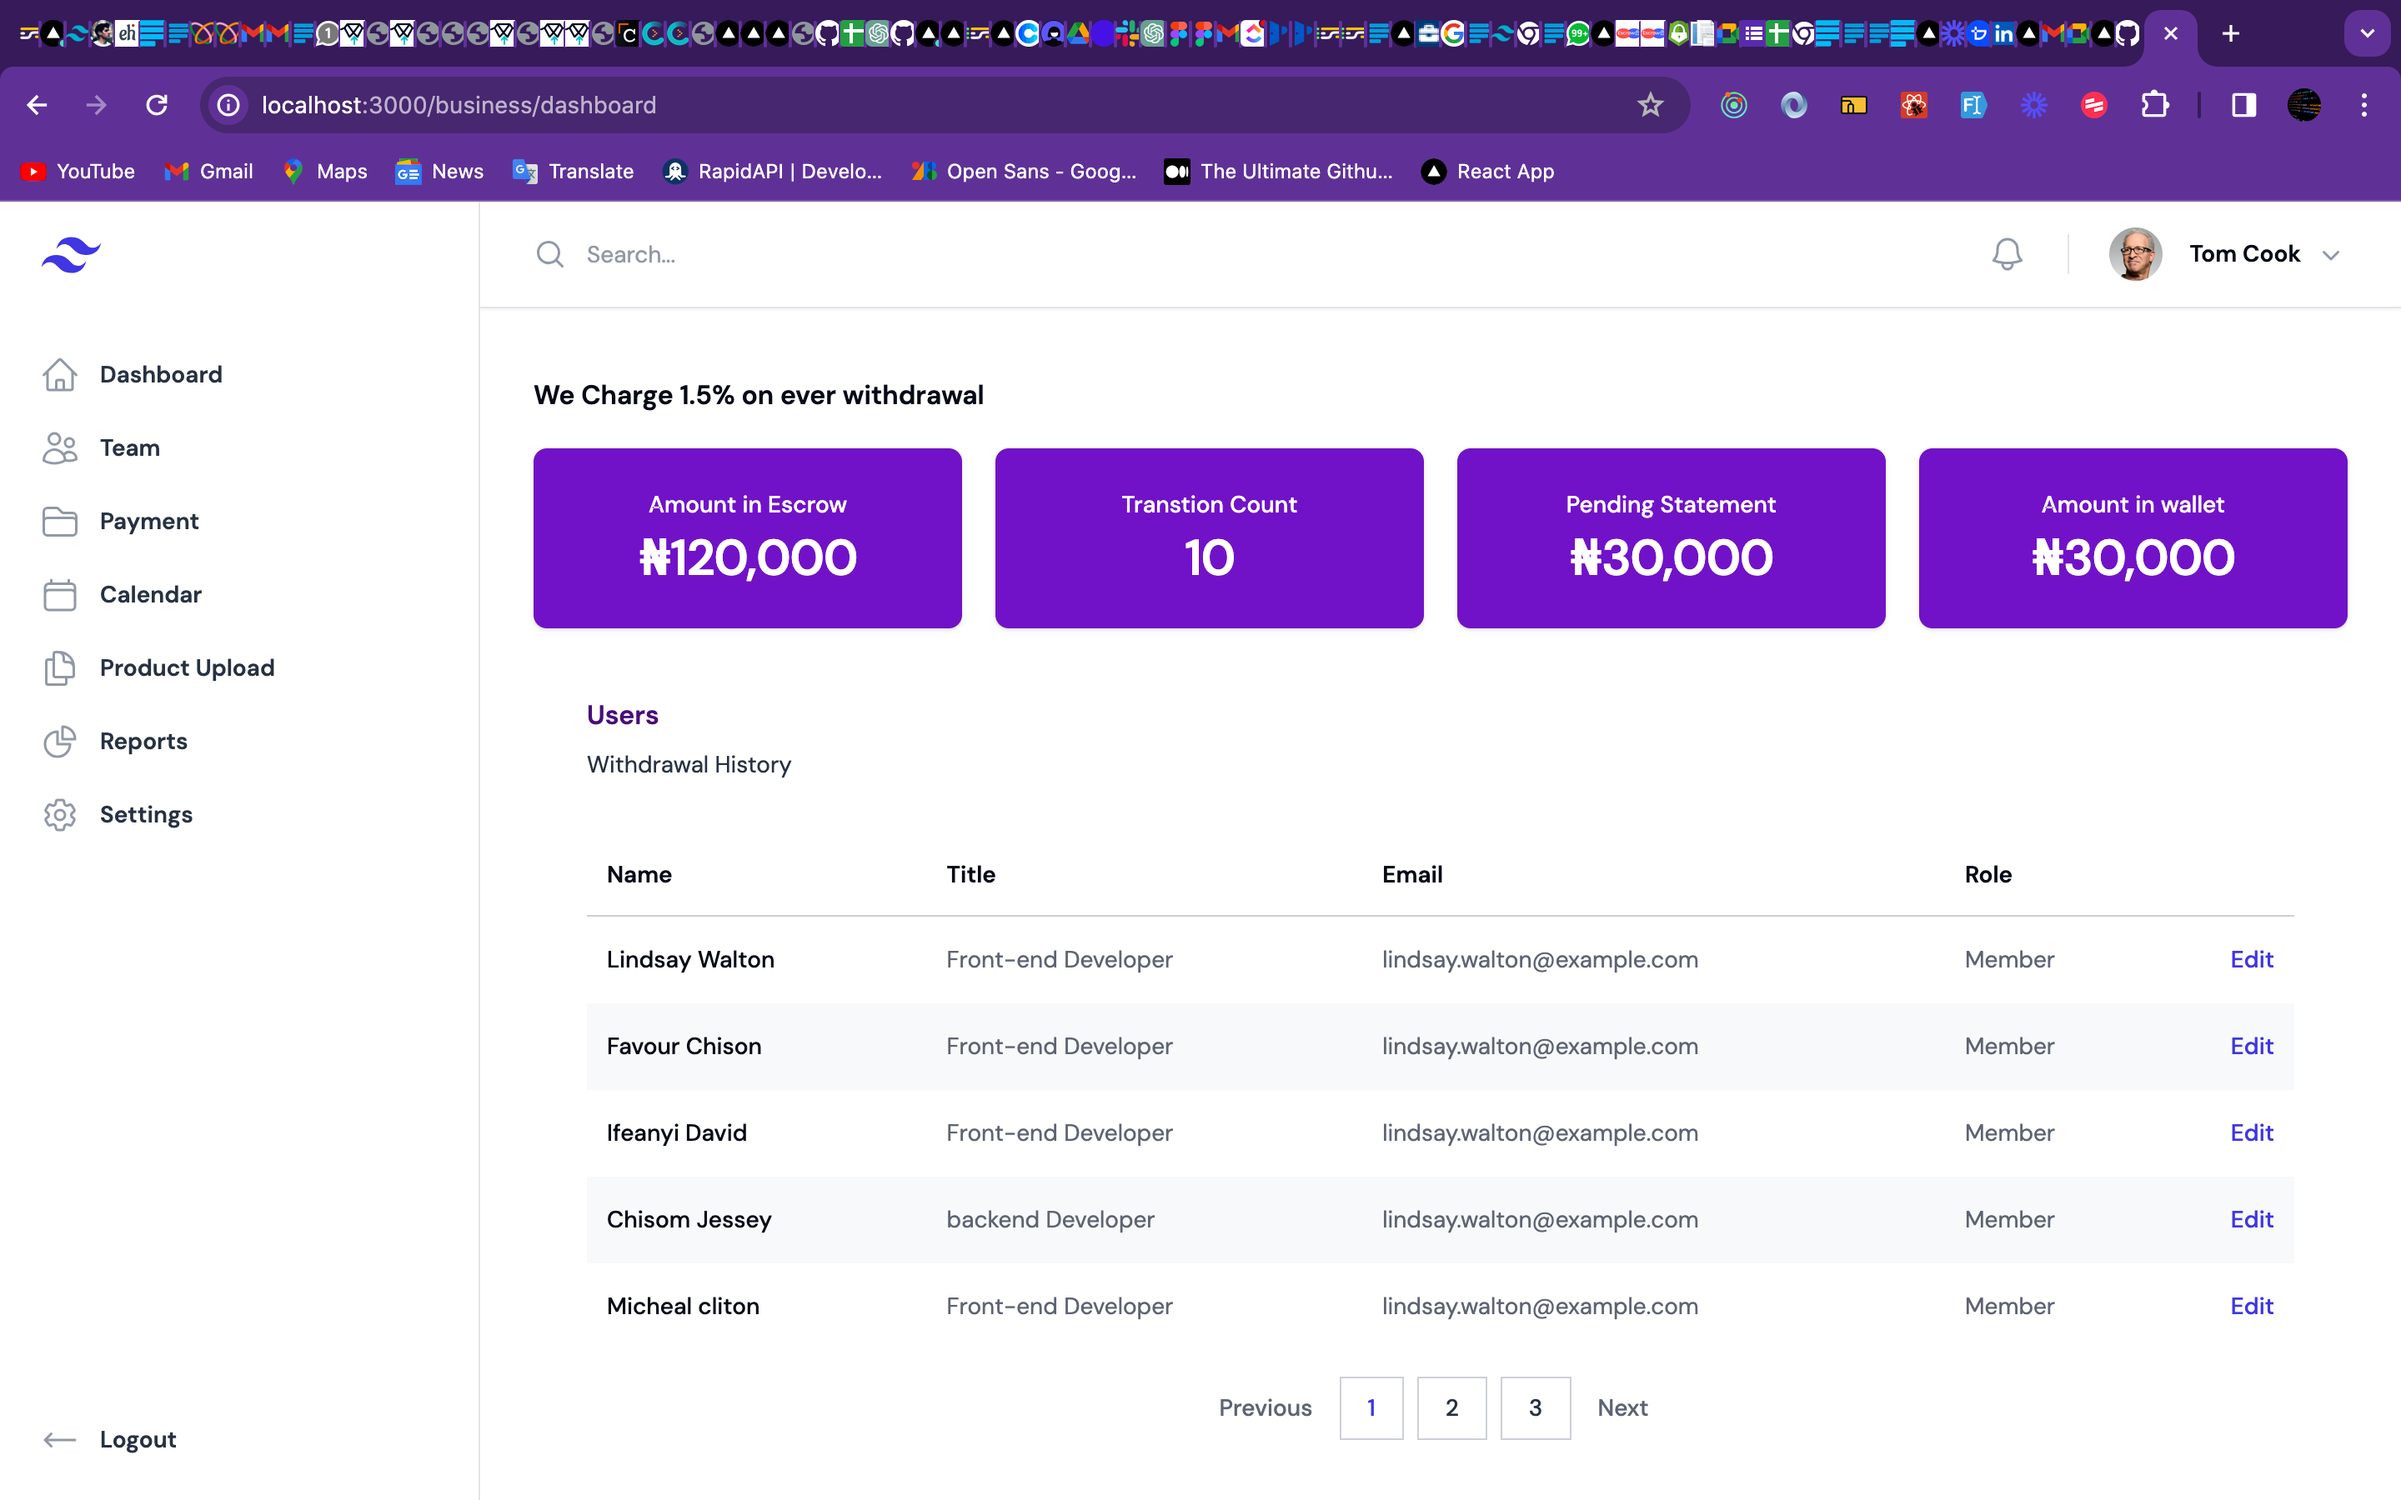
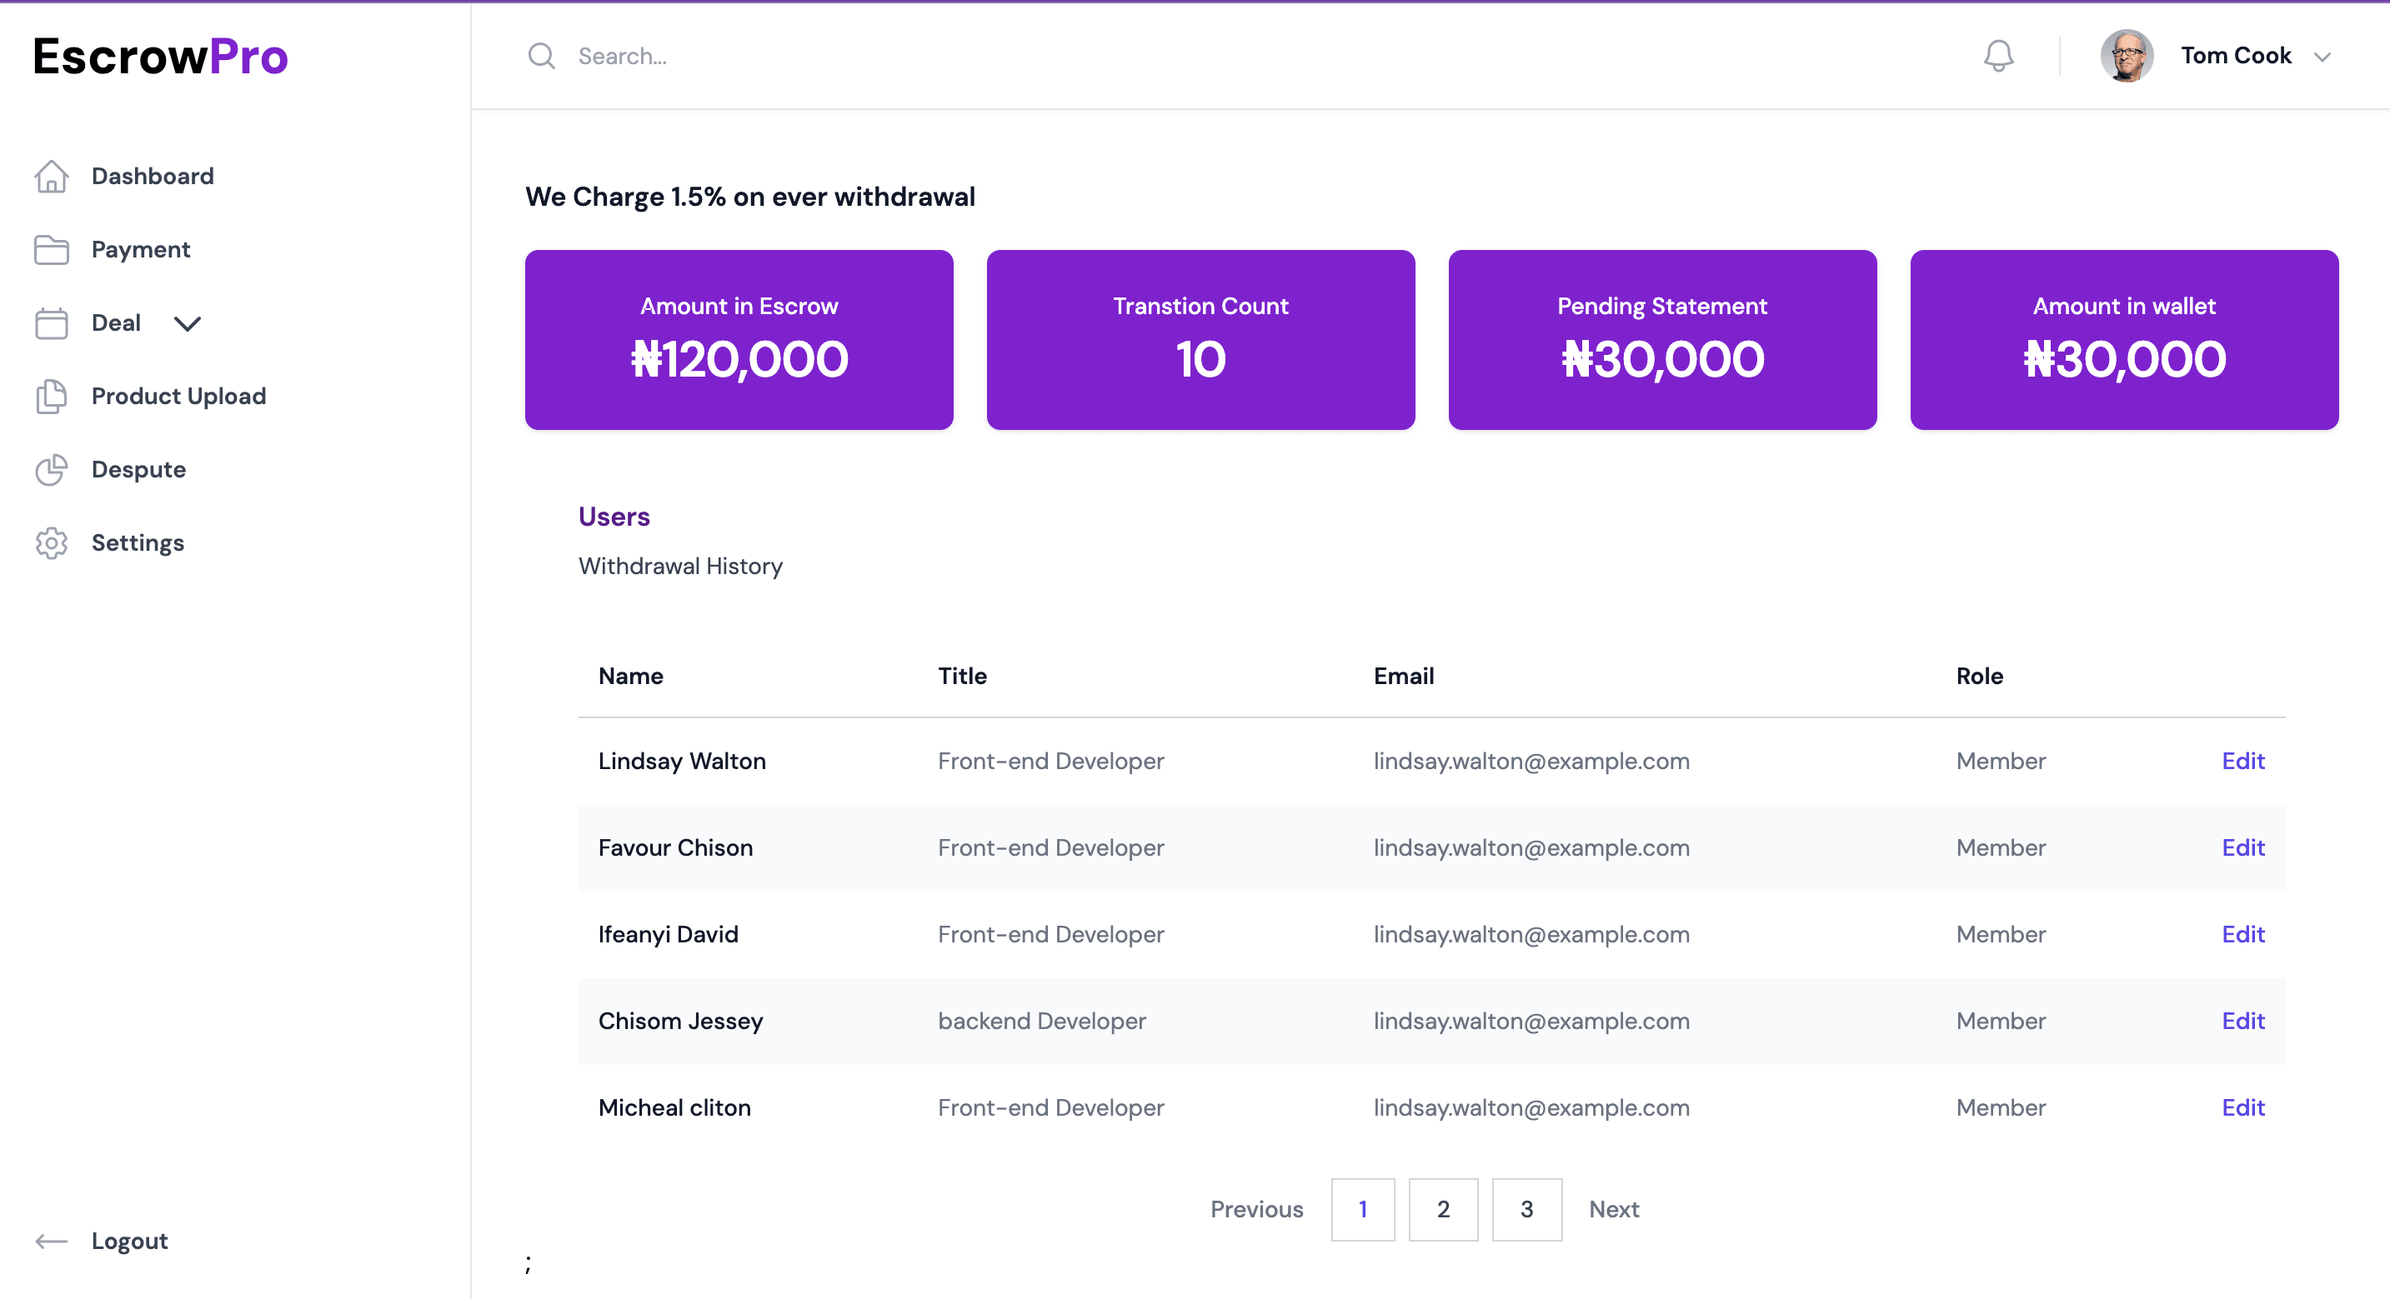
new changes

diff --git a/src/components/ui/organisms/authpage/loginForm/index.tsx b/src/components/ui/organisms/authpage/loginForm/index.tsx
@@ -1,95 +1,111 @@
-import React from 'react';
-import { Bars3Icon, XMarkIcon, ArrowLeftIcon } from '@heroicons/react/24/outline'
+import React from "react";
+import {
+  Bars3Icon,
+  XMarkIcon,
+  ArrowLeftIcon,
+} from "@heroicons/react/24/outline";
 
 const LoginForm = () => {
-    return (
-        <>
-
-            <div className=' h-full bg-white'>
-                <div className='mt-[7%]'>
-                    <div className="flex min-h-full flex-1 flex-col justify-center px-6 py-12 lg:px-8">
-                        <div className="sm:mx-auto sm:w-full sm:max-w-sm">
-                            <img
-                                className="mx-auto h-10 w-auto"
-                                src="https://tailwindui.com/img/logos/mark.svg?color=indigo&shade=500"
-                                alt="Your Company"
-                            />
-                            <h2 className="mt-10 text-center text-2xl font-bold leading-9 tracking-tight text-purple-900">
-                                Sign in to your account
-                            </h2>
-                        </div>
-
-                        <div className="mt-10 sm:mx-auto sm:w-full sm:max-w-sm">
-                            <form className="space-y-6" action="#" method="POST">
-
-                                <div>
-                                    <label htmlFor="email" className="block text-sm font-medium leading-6 text-black">
-                                        Email address
-                                    </label>
-                                    <div className="mt-2">
-                                        <input
-                                            id="email"
-                                            name="email"
-                                            type="email"
-                                            autoComplete="email"
-                                            required
-                                            className="block w-full rounded-md border-1 bg-white/5 py-1.5  shadow-sm ring-1 ring-inset ring-white/10 focus:ring-2 focus:ring-inset focus:ring-indigo-500 sm:text-sm sm:leading-6"
-                                        />
-                                    </div>
-                                </div>
-
-                                <div>
-                                    <div className="flex items-center justify-between">
-                                        <label htmlFor="password" className="block text-sm font-medium leading-6 text-black">
-                                            Password
-                                        </label>
-                                        <div className="text-sm">
-                                            <a href="/forgotten" className="font-semibold text-purple-900 hover:text-purple-500">
-                                                Forgot password?
-                                            </a>
-                                        </div>
-                                    </div>
-                                    <div className="mt-2">
-                                        <input
-                                            id="password"
-                                            name="password"
-                                            type="password"
-                                            autoComplete="current-password"
-                                            required
-                                            className="block w-full rounded-md border-1 bg-white/5 py-1.5  shadow-sm ring-1 ring-inset ring-white/10 focus:ring-2 focus:ring-inset focus:ring-indigo-500 sm:text-sm sm:leading-6"
-                                        />
-                                    </div>
-                                </div>
-
-                                <div>
-                                    <button
-                                        type="submit"
-                                        className="flex w-full justify-center rounded-md bg-purple-900 px-3 py-1.5 text-sm font-semibold leading-6 text-white shadow-sm hover:bg-indigo-400 focus-visible:outline focus-visible:outline-2 focus-visible:outline-offset-2 focus-visible:outline-indigo-500"
-                                    >
-                                        Sign in
-                                    </button>
-                                </div>
-                            </form>
-
-                            <p className="mt-10 text-center text-sm text-gray-400">
-                                Not a member?{' '}
-                                <a href="/signup" className="font-semibold leading-6 text-purple-900 hover:text-purple-500">
-                                    Sign up
-                                </a>
-                            </p>
-                            <p className="mt-10 text-center text-sm text-gray-400">
-                                <a href="/" className="font-semibold leading-6 text-purple-900 hover:text-purple-500">
-                                    Back to home
-                                </a>
-                            </p>
-                        </div>
-                    </div>
-                </div>
-
+  return (
+    <>
+      <div className=" h-full bg-white">
+        <div className="mt-[7%]">
+          <div className="flex min-h-full flex-1 flex-col justify-center px-6 py-12 lg:px-8">
+            <div className="sm:mx-auto sm:w-full sm:max-w-sm">
+              <div className="flex justify-center lg:flex-1">
+                <a href="#" className="-m-1.5 font-bold text-3xl p-1.5">
+                  Escrow
+                  <span className="text-purple-700">Pro</span>
+                </a>
+              </div>
+              <h2 className="mt-10 text-center text-2xl font-bold leading-9 tracking-tight text-purple-900">
+                Sign in to your account
+              </h2>
             </div>
 
-        </>
-    );
+            <div className="mt-10 sm:mx-auto sm:w-full sm:max-w-sm">
+              <form className="space-y-6" action="#" method="POST">
+                <div>
+                  <label
+                    htmlFor="email"
+                    className="block text-sm font-medium leading-6 text-black"
+                  >
+                    Email address
+                  </label>
+                  <div className="mt-2">
+                    <input
+                      id="email"
+                      name="email"
+                      type="email"
+                      autoComplete="email"
+                      required
+                      className="block w-full rounded-md border-1 bg-white/5 py-1.5  shadow-sm ring-1 ring-inset ring-white/10 focus:ring-2 focus:ring-inset focus:ring-indigo-500 sm:text-sm sm:leading-6"
+                    />
+                  </div>
+                </div>
+
+                <div>
+                  <div className="flex items-center justify-between">
+                    <label
+                      htmlFor="password"
+                      className="block text-sm font-medium leading-6 text-black"
+                    >
+                      Password
+                    </label>
+                    <div className="text-sm">
+                      <a
+                        href="/forgotten"
+                        className="font-semibold text-purple-900 hover:text-purple-500"
+                      >
+                        Forgot password?
+                      </a>
+                    </div>
+                  </div>
+                  <div className="mt-2">
+                    <input
+                      id="password"
+                      name="password"
+                      type="password"
+                      autoComplete="current-password"
+                      required
+                      className="block w-full rounded-md border-1 bg-white/5 py-1.5  shadow-sm ring-1 ring-inset ring-white/10 focus:ring-2 focus:ring-inset focus:ring-indigo-500 sm:text-sm sm:leading-6"
+                    />
+                  </div>
+                </div>
+
+                <div>
+                  <button
+                    type="submit"
+                    className="flex w-full justify-center rounded-md bg-purple-900 px-3 py-1.5 text-sm font-semibold leading-6 text-white shadow-sm hover:bg-indigo-400 focus-visible:outline focus-visible:outline-2 focus-visible:outline-offset-2 focus-visible:outline-indigo-500"
+                  >
+                    Sign in
+                  </button>
+                </div>
+              </form>
+
+              <p className="mt-10 text-center text-sm text-gray-400">
+                Not a member?{" "}
+                <a
+                  href="/signup"
+                  className="font-semibold leading-6 text-purple-900 hover:text-purple-500"
+                >
+                  Sign up
+                </a>
+              </p>
+              <p className="mt-10 text-center text-sm text-gray-400">
+                <a
+                  href="/"
+                  className="font-semibold leading-6 text-purple-900 hover:text-purple-500"
+                >
+                  Back to home
+                </a>
+              </p>
+            </div>
+          </div>
+        </div>
+      </div>
+    </>
+  );
 };
 
 export default LoginForm;

diff --git a/src/components/ui/organisms/homepage/hero/index.tsx b/src/components/ui/organisms/homepage/hero/index.tsx
@@ -36,7 +36,7 @@ const Hero = () => {
                 <span className="text-green-600 animate-pulse">seller</span>
               </h1>
               <p className="mt-6 text-lg leading-8 text-gray-600">
-                At SafeTrade, we provide a secure and reliable escrow service
+                At EscrowPro, we provide a secure and reliable escrow service
                 for your transactions, ensuring peace of mind for both buyers
                 and sellers. Whether You&lsquo;re conducting business online or
                 in person, our platform offers a trusted intermediary to
@@ -60,7 +60,7 @@ const Hero = () => {
             <div className="mt-16 flow-root sm:mt-24">
               <div className="-m-2 rounded-xl p-2  ring-gray-900/10 lg:-m-4 lg:rounded-2xl lg:p-4">
                 <img
-                  src="/assets/images/dashboard1.png"
+                  src="/assets/images/dashboard.png"
                   alt="App screenshot"
                   width={2432}
                   height={1442}
